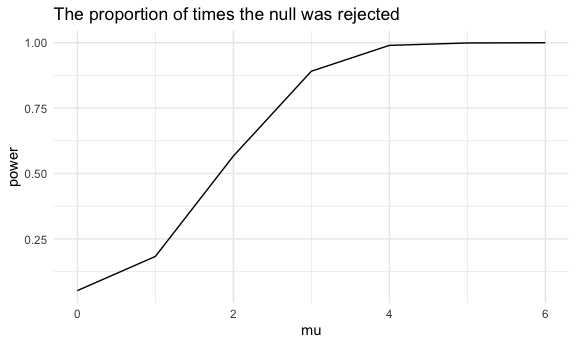
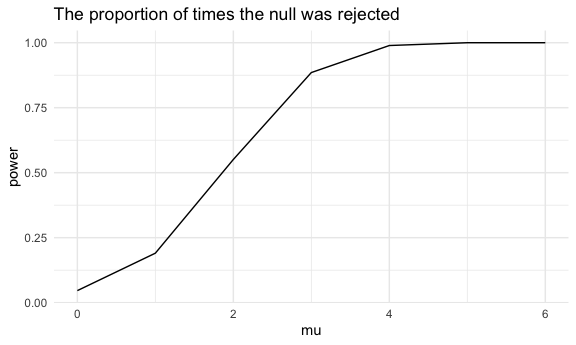
updating answers

diff --git a/P8105_HW5_ys3295.md b/P8105_HW5_ys3295.md
@@ -177,11 +177,10 @@ tidy_long_data %>%
 
 <img src="P8105_HW5_ys3295_files/figure-gfm/unnamed-chunk-10-1.png" width="90%" />
 
-Several similarity and differences between control and experimental
-group are shown in the plots. The observation values is fluctuating
-during the 8 weeks. The figures indicates that the trend for control
-group tends to keep constant through 8 weeks while the experimental
-group showed an increasing trend during this period.
+  - The observation values is fluctuating during the 8 weeks. The
+    figures indicates that the trend for control group tends to keep
+    constant through 8 weeks while the experimental group showed an
+    increasing trend during this period.
 
 # Problem 3
 
@@ -242,6 +241,8 @@ sim_results =
   select(mu,estimate, p.value)
 ```
 
+Make a plot showing the proportion of times the null was rejected.
+
 ``` r
 test_df = 
   sim_results %>% 
@@ -269,5 +270,36 @@ test_df %>%
 
 <img src="P8105_HW5_ys3295_files/figure-gfm/unnamed-chunk-15-1.png" width="90%" />
 
-  - The figure showed that as the effect size increase, the power will
-    increase.
+  - The figure showed that the power will increase with the effect size
+    increasing, given that alpha and sample size keep constant.
+
+Make two plots.
+
+``` r
+df = 
+  sim_results %>% 
+  mutate(
+    test_results = case_when(p.value < 0.05 ~ "reject",
+                            p.value >= 0.05 ~ "fail to reject")
+         ) %>%
+  group_by(mu) %>% 
+  mutate(est_mean = mean(estimate)) %>% 
+  ungroup() %>% 
+  group_by(mu, test_results) %>% 
+  filter(test_results == "reject") %>% 
+  mutate(est_mean_reject = mean(estimate)) %>% 
+  pivot_longer(
+    cols = c(est_mean, est_mean_reject),
+    names_to = "type",
+    values_to = "est_mean_mu"
+  )
+
+df %>% 
+  ggplot(aes(x = mu, y = est_mean_mu, color = type)) + 
+  geom_point() + 
+  geom_path()+
+  labs(title = "The average estimated mu vs. the true mu",
+       y= "average estimated mu")
+```
+
+<img src="P8105_HW5_ys3295_files/figure-gfm/unnamed-chunk-16-1.png" width="90%" />
